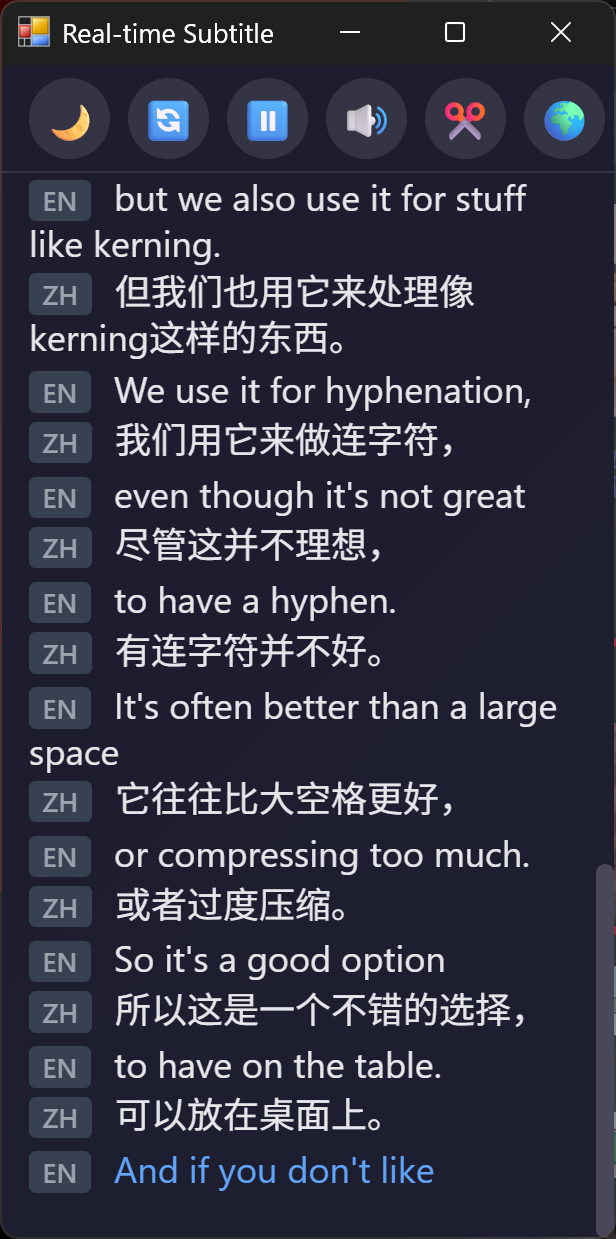
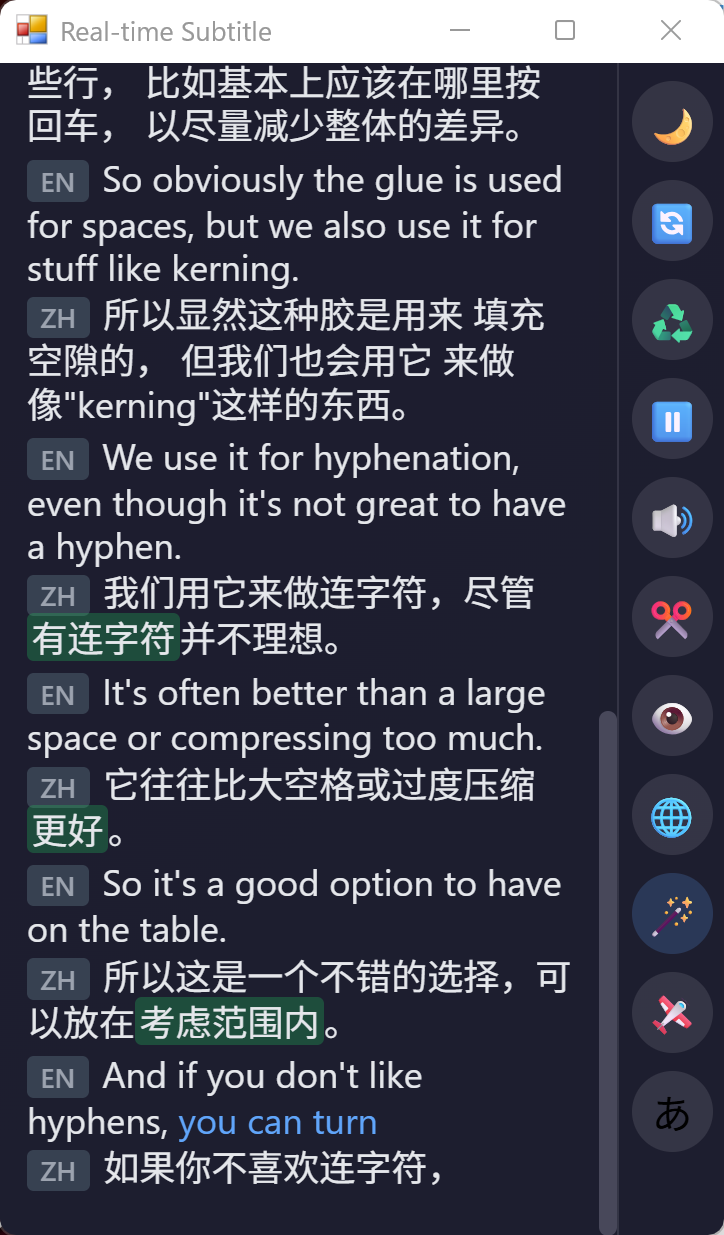
Updated the screenshot and the README

diff --git a/README.md b/README.md
@@ -12,10 +12,10 @@ A real-time speech-to-subtitle tool based on Soniox API. Captures system audio a
 
 ## Features
 
-- Capture audio from system default output or default microphone
 - Speech recognition powered by Soniox
 - Real-time translation (uses system language as target by default)
-- Toggle sentence segmentation mode and source/target language display
+- Use LLM to refine completed translations (optional)
+- And more (I'm too lazy to list them all; just hover over the buttons and check the tooltips)
 
 ## Installation
 